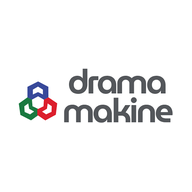
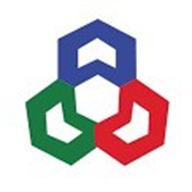
222

diff --git a/admin.html b/admin.html
@@ -20,7 +20,10 @@
 <meta name="apple-mobile-web-app-status-bar-style" content="default">
 <meta name="apple-mobile-web-app-title" content="ServisDrama">
 <meta http-equiv="Cache-Control" content="no-cache, no-store, must-revalidate">
-<link rel="manifest" href="/manifest.webmanifest?v=20260804-pwa-v1">
+<link rel="icon" type="image/png" sizes="32x32" href="/assets/pwa/favicon-32.png?v=20260821-logo-v2">
+<link rel="icon" type="image/png" sizes="16x16" href="/assets/pwa/favicon-16.png?v=20260821-logo-v2">
+<link rel="apple-touch-icon" href="/assets/pwa/apple-touch-icon.png?v=20260821-logo-v2">
+<link rel="manifest" href="/manifest.webmanifest?v=20260821-logo-v2">
 </head>
 <body class="admin-body">
 

diff --git a/sales.html b/sales.html
@@ -16,7 +16,10 @@
 <meta name="apple-mobile-web-app-status-bar-style" content="default">
 <meta name="apple-mobile-web-app-title" content="ServisDrama">
 <meta http-equiv="Cache-Control" content="no-cache, no-store, must-revalidate">
-<link rel="manifest" href="/manifest.webmanifest?v=20260804-pwa-v1">
+<link rel="icon" type="image/png" sizes="32x32" href="/assets/pwa/favicon-32.png?v=20260821-logo-v2">
+<link rel="icon" type="image/png" sizes="16x16" href="/assets/pwa/favicon-16.png?v=20260821-logo-v2">
+<link rel="apple-touch-icon" href="/assets/pwa/apple-touch-icon.png?v=20260821-logo-v2">
+<link rel="manifest" href="/manifest.webmanifest?v=20260821-logo-v2">
 </head>
 <body class="sales-body">
 

diff --git a/index.html b/index.html
@@ -211,7 +211,10 @@
 <meta name="apple-mobile-web-app-status-bar-style" content="black-translucent">
 <meta name="apple-mobile-web-app-title" content="ServisDrama">
 <meta http-equiv="Cache-Control" content="no-cache, no-store, must-revalidate">
-<link rel="manifest" href="/manifest.webmanifest?v=20260804-pwa-v1">
+<link rel="icon" type="image/png" sizes="32x32" href="/assets/pwa/favicon-32.png?v=20260821-logo-v2">
+<link rel="icon" type="image/png" sizes="16x16" href="/assets/pwa/favicon-16.png?v=20260821-logo-v2">
+<link rel="apple-touch-icon" href="/assets/pwa/apple-touch-icon.png?v=20260821-logo-v2">
+<link rel="manifest" href="/manifest.webmanifest?v=20260821-logo-v2">
 </head>
 <body>
 
